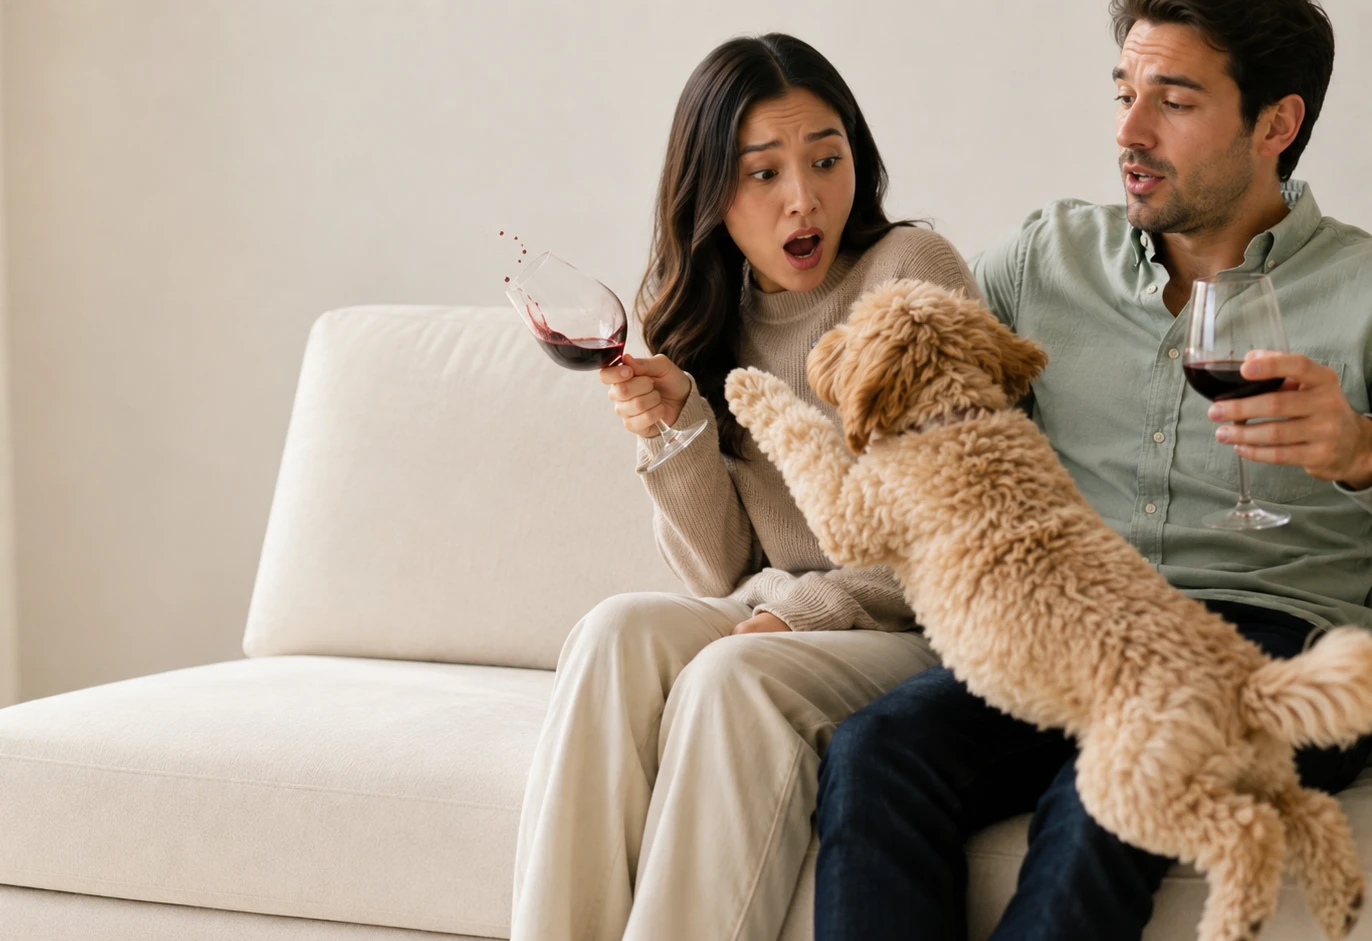
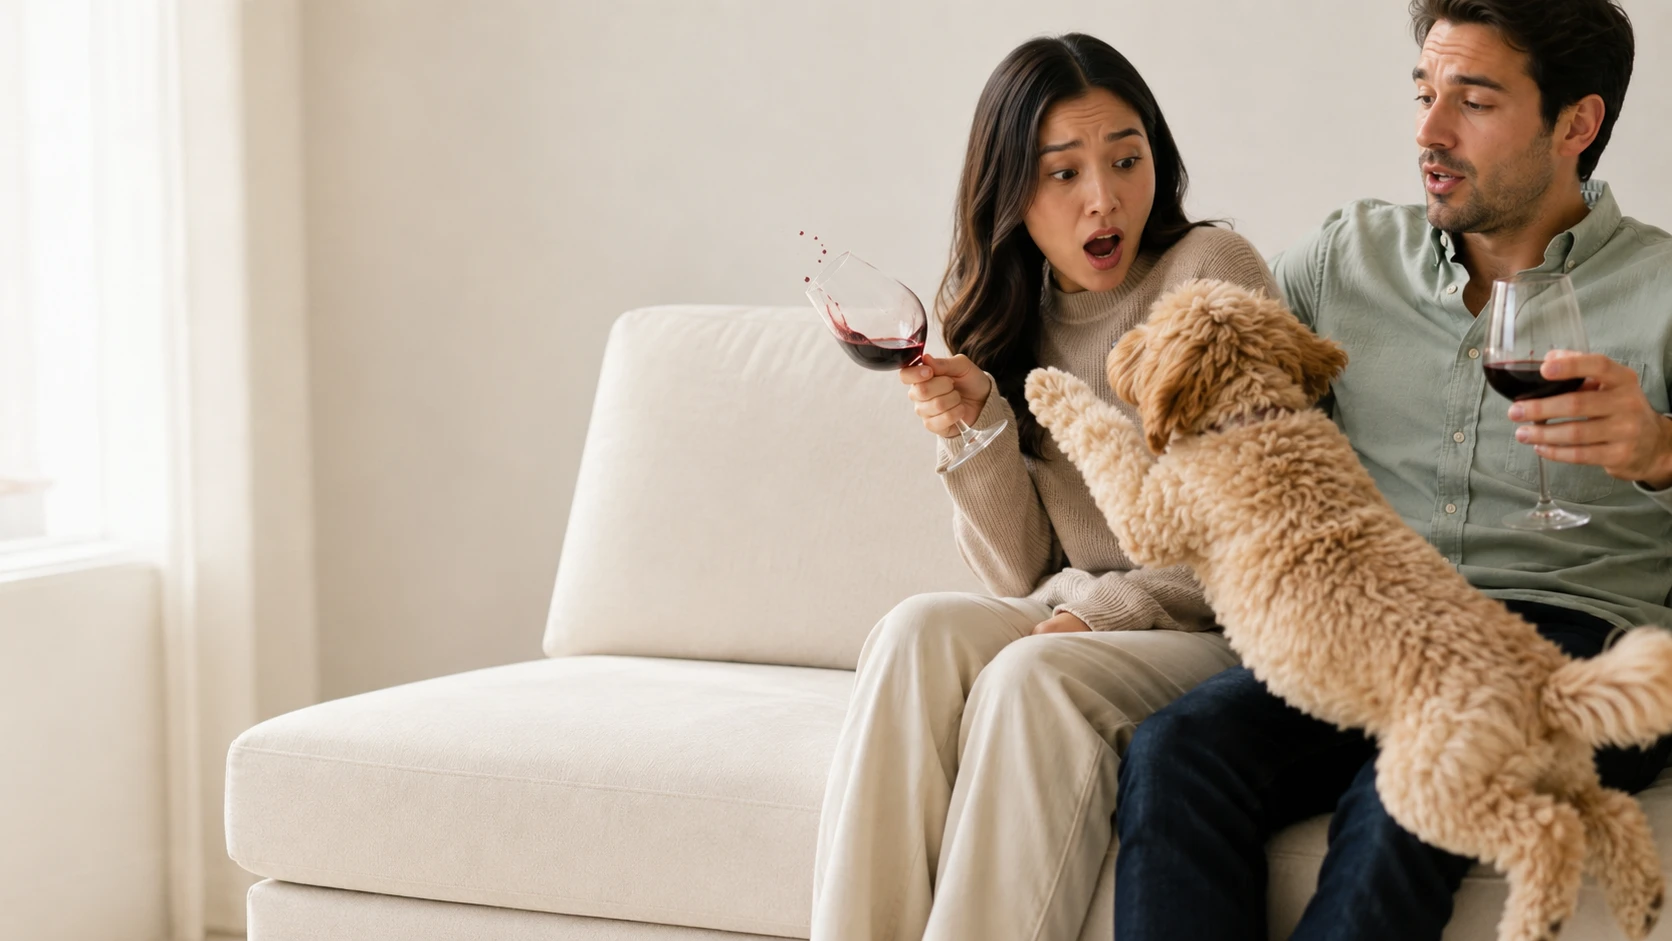
DTC hero v11: 60% photo, new copy, dual CTA, invoice strip removed, reversed trust band

diff --git a/index.html b/index.html
@@ -285,66 +285,59 @@ em.gold{font-style:italic;color:var(--gold);font-weight:500}
 .cart-success .success-call a{color:var(--orange);font-weight:700;text-decoration:none;white-space:nowrap}
 
 /* ============================================================
-   DTC-2 · HERO — photo anchored right at full strength, paper
-   gradient seam over the empty cushion, text column left. The
-   old kiosk hero rules (grid/price/proof) were cannibalized —
-   this block replaces them. Mobile (<768px): art-directed photo
-   band ABOVE the text, no gradient, no overlay.
+   DTC-7 · HERO — full master frame anchored right at full
+   strength (photo owns the right ~60% of the band), paper
+   gradient seam over the empty cushion, text column left ~40%:
+   H1, lead line, two muted support lines, CTA row (filled
+   primary + quiet Get Help). Mobile (<768px): art-directed
+   photo band ABOVE the text, no gradient; primary CTA
+   full-width, Get Help demoted to a centered text link.
    ============================================================ */
 .hero{position:relative;background:var(--paper);overflow:hidden}
 .hero-media{height:200px;background-image:url(assets/hero-mobile.webp);background-size:cover;background-position:center;background-repeat:no-repeat}
 .hero-inner{position:relative;z-index:1;width:100%}
 .hero-copy{padding:30px 0 44px}
-.hero-headline{margin:0 0 18px;font-size:clamp(2.4rem,4.6vw,4.2rem);line-height:1;letter-spacing:-.03em;font-variation-settings:"opsz" 96}
-.hero-lead{font-size:clamp(1.1rem,1.7vw,1.35rem);line-height:1.45;color:var(--ink-65);margin:0 0 28px;max-width:540px}
+.hero-headline{margin:0 0 16px;font-size:clamp(2.1rem,3.4vw,3.3rem);line-height:1.04;letter-spacing:-.03em;font-variation-settings:"opsz" 96}
+.hero-lead{font-size:clamp(1.05rem,1.5vw,1.25rem);line-height:1.5;font-weight:500;color:var(--ink);margin:0 0 10px}
+.hero-sub{font-size:clamp(.9rem,1.15vw,1rem);line-height:1.5;color:var(--ink-65);margin:0 0 6px}
+.hero-cta{display:flex;flex-direction:column;align-items:stretch;gap:14px;margin-top:26px}
+/* DTC-7: below 768px Get Help drops its .btn-quiet box and reads as a plain
+   centered text link under the full-width primary. */
+@media (max-width:767.98px){
+  .hero-cta .hero-help{background:none;border:none;padding:2px 0;align-self:center;font-weight:500;color:var(--ink-65);text-decoration:underline;text-decoration-thickness:1px;text-underline-offset:3px;text-decoration-color:var(--rule-strong)}
+}
 @media (min-width:768px){
   .hero{min-height:clamp(520px,60vh,600px);display:flex;align-items:center}
   /* Two background layers on one element: photo height-fit + right-anchored
-     (so its left edge — the empty cushion — meets the seam), and a
-     left-to-right wash of --paper on top: solid to ~55% of the band,
-     transparent by ~66%, photo full-strength in the right third. */
+     (full 1672x941 master frame — its empty-cushion/bright-wall left third
+     takes the seam; the tipping glass sits ~67-70% of the band at full
+     strength), and a left-to-right wash of --paper on top: solid to ~40%
+     of the band, transparent by ~55%, photo full-strength rightward. */
   .hero-media{position:absolute;top:0;left:0;right:0;bottom:0;height:auto;
-    background-image:linear-gradient(90deg,var(--paper) 0%,var(--paper) 55%,rgba(255,255,255,0) 66%),url(assets/hero-desktop.webp);
+    background-image:linear-gradient(90deg,var(--paper) 0%,var(--paper) 40%,rgba(255,255,255,0) 55%),url(assets/hero-desktop.webp);
     background-size:auto,auto 100%;
     background-position:0 0,right center;
     background-repeat:no-repeat,no-repeat}
-  .hero-copy{max-width:55%;padding:48px 0}
+  .hero-copy{max-width:40%;padding:48px 0}
+  .hero-cta{flex-direction:row;align-items:center;gap:16px}
 }
 
 /* ============================================================
-   DTC-2 · INVOICE STRIP — page background, hairline rules top +
-   bottom, nothing clickable. Sentence left, invoice card right.
+   DTC-7 · TRUST STRIP v2 — narrow REVERSED band (navy-deep fill,
+   light text, gold star), nothing clickable. The ONLY reversed
+   band on the page. The fill itself separates hero above from
+   #plans below, so no hairline rules here or on those edges.
+   Mobile: compact 2x2 grid, middots hidden.
    ============================================================ */
-.invoice-strip{border-top:1px solid var(--rule);border-bottom:1px solid var(--rule);padding:clamp(40px,5vw,64px) 0}
-.invoice-grid{display:grid;grid-template-columns:1fr;gap:36px;align-items:center}
-.invoice-statement{font-family:var(--display);font-weight:500;font-size:clamp(1.5rem,2.6vw,2rem);line-height:1.18;letter-spacing:-.022em;color:var(--ink);margin:0 0 12px;font-variation-settings:"opsz" 96}
-.invoice-sub{font-size:clamp(1rem,1.4vw,1.125rem);line-height:1.55;color:var(--ink-65);margin:0}
-.invoice-card{max-width:400px;margin:0 auto;background:var(--paper);border:1px solid var(--rule-strong);border-radius:3px;box-shadow:var(--shadow-card);padding:26px 28px;font-family:ui-monospace,SFMono-Regular,Menlo,Consolas,monospace;font-size:13px;line-height:1.5;color:var(--ink)}
-.invoice-eyebrow{font-size:11px;font-weight:600;letter-spacing:.14em;text-transform:uppercase;color:var(--ink-45);margin:0 0 16px}
-.invoice-row{display:flex;align-items:baseline;justify-content:space-between;gap:8px;margin:0 0 8px}
-.invoice-dots{flex:1;border-bottom:1px dotted var(--rule-strong);transform:translateY(-3px)}
-.invoice-total{display:flex;align-items:baseline;justify-content:space-between;gap:8px;border-top:1px solid var(--rule);margin-top:12px;padding-top:12px;font-weight:700}
-.invoice-hassle{font-family:var(--body);font-size:.8125rem;line-height:1.5;color:var(--ink-65);margin:16px 0 0}
-@media (min-width:880px){
-  .invoice-grid{grid-template-columns:1.2fr 1fr;gap:64px}
-  .invoice-card{margin-left:auto;margin-right:0}
-}
-
-/* ============================================================
-   DTC-2 · TRUST STRIP — one line of muted text, nothing clickable,
-   no fill, no heading. Hairlines come from the neighbors (invoice
-   strip border-bottom above, #compare border-top below) so bands
-   share single rules. Mobile: compact 2×2 grid, middots hidden.
-   ============================================================ */
-.trust-strip{padding:22px 0}
-.trust-items{list-style:none;margin:0;padding:0;display:grid;grid-template-columns:1fr 1fr;gap:12px 20px;font-size:.8438rem;line-height:1.4;color:var(--ink-65)}
+.trust-strip{background:var(--navy-deep);padding:9px 0}
+.trust-items{list-style:none;margin:0;padding:0;display:grid;grid-template-columns:1fr 1fr;gap:8px 16px;font-size:.8438rem;line-height:1.4;color:rgba(255,255,255,.85)}
 .trust-star{color:var(--gold)}
 @media (min-width:768px){
-  .trust-strip{display:flex;align-items:center;min-height:66px;padding:0}
+  .trust-strip{display:flex;align-items:center;min-height:52px;padding:0}
   .trust-strip .container{width:100%}
   .trust-items{display:flex;justify-content:center;align-items:center}
   .trust-items li{white-space:nowrap}
-  .trust-items li+li::before{content:"\00B7";color:var(--ink-45);margin:0 clamp(14px,2.2vw,28px)}
+  .trust-items li+li::before{content:"\00B7";color:rgba(255,255,255,.45);margin:0 clamp(14px,2.2vw,28px)}
 }
 
 /* DTC-5: old how-it-works (.hiw-*) + configurator (.signed-card, .cfg-*) CSS reaped —
@@ -357,9 +350,10 @@ em.gold{font-style:italic;color:var(--gold);font-weight:500}
 
 /* ============================================================
    PLANS (DTC-3) — A primary left (~57%), B + C stacked right.
-   Section separated by spacing + a hairline rule only (no fill).
+   No top rule: the navy trust band directly above (DTC-7) is a
+   fill, so its edge is the separation.
    ============================================================ */
-.plans{padding:clamp(32px,4vw,56px) 0 var(--sp-section);border-top:1px solid var(--rule)}
+.plans{padding:clamp(32px,4vw,56px) 0 var(--sp-section)}
 .plans-elig{font-size:.9rem;color:var(--ink-65);line-height:1.55;max-width:640px;margin:0 0 22px}
 .plans-grid{display:grid;grid-template-columns:1fr;gap:20px;align-items:stretch}
 .plans-col-side{display:flex;flex-direction:column;gap:20px}
@@ -697,44 +691,28 @@ html.phone #phone-handoff{display:flex;width:100%;min-height:100vh;align-items:c
 <main id="main">
 
 
-<!-- DTC-2 · HERO — four elements only: photo, H1, price line, one button.
-     Photo is a background layer (never an <img> in flow); the button is the
-     hero's only interactive element. -->
+<!-- DTC-7 · HERO — photo is a background layer (never an <img> in flow).
+     Owner copy verbatim: H1, lead, two support lines. CTA row: the filled
+     primary sells (orange = purchase action); Get Help is a quiet exit to
+     the service site, same target as the header's Get Service link. -->
 <section class="hero" aria-label="Protect your furniture">
   <div class="hero-media" aria-hidden="true"></div>
   <div class="container hero-inner">
     <div class="hero-copy">
-      <h1 class="hero-headline">Protect the sofa before you buy it.</h1>
-      <p class="hero-lead">$19.99 a month. Starts the day it&rsquo;s delivered. Cancel anytime.</p>
-      <a href="#plans" class="btn btn-accent">Protect my furniture</a>
-    </div>
-  </div>
-</section>
-
-<!-- DTC-2 · INVOICE STRIP — nothing clickable.
-     Figures are PLACEHOLDERS pending RAP claims data (owner). The
-     "typical quote" label is load-bearing — keep it. -->
-<section class="invoice-strip" aria-label="What one repair costs">
-  <div class="container">
-    <div class="invoice-grid">
-      <div class="invoice-lead">
-        <p class="invoice-statement">This is what one repair costs without a plan.</p>
-        <p class="invoice-sub">We find the technician, book the visit, and pay the bill.</p>
-      </div>
-      <div class="invoice-card">
-        <p class="invoice-eyebrow">Upholstery repair &middot; typical quote</p>
-        <div class="invoice-row"><span>Trip charge</span><span class="invoice-dots" aria-hidden="true"></span><span>$89</span></div>
-        <div class="invoice-row"><span>Labor, 2 hrs</span><span class="invoice-dots" aria-hidden="true"></span><span>$240</span></div>
-        <div class="invoice-row"><span>Re-web + fabric</span><span class="invoice-dots" aria-hidden="true"></span><span>$185</span></div>
-        <div class="invoice-total"><span>Total</span><span>$514</span></div>
-        <p class="invoice-hassle">&hellip;plus finding someone, three quotes, a weekday at home.</p>
+      <h1 class="hero-headline">The sofa hasn&rsquo;t arrived. But life is waiting.</h1>
+      <p class="hero-lead">Protect your new furniture for $19.99 a month. Cancel anytime.</p>
+      <p class="hero-sub">Sign up before you shop. Payments begin at delivery.</p>
+      <p class="hero-sub">Accidents happen, and repairs are expensive.</p>
+      <div class="hero-cta">
+        <a href="#plans" class="btn btn-accent">Protect my furniture</a>
+        <a href="https://5starservice.net/" target="_blank" rel="noopener" class="btn btn-quiet hero-help">Get Help</a>
       </div>
     </div>
   </div>
 </section>
 
-<!-- DTC-2 · TRUST STRIP — replaces the old RAP trust banner. One muted
-     text line, only the star carries color, nothing clickable. -->
+<!-- DTC-7 · TRUST STRIP v2 — reversed navy band, one muted light line,
+     only the star carries color, nothing clickable. -->
 <section class="trust-strip" aria-label="Service facts">
   <div class="container">
     <ul class="trust-items">
